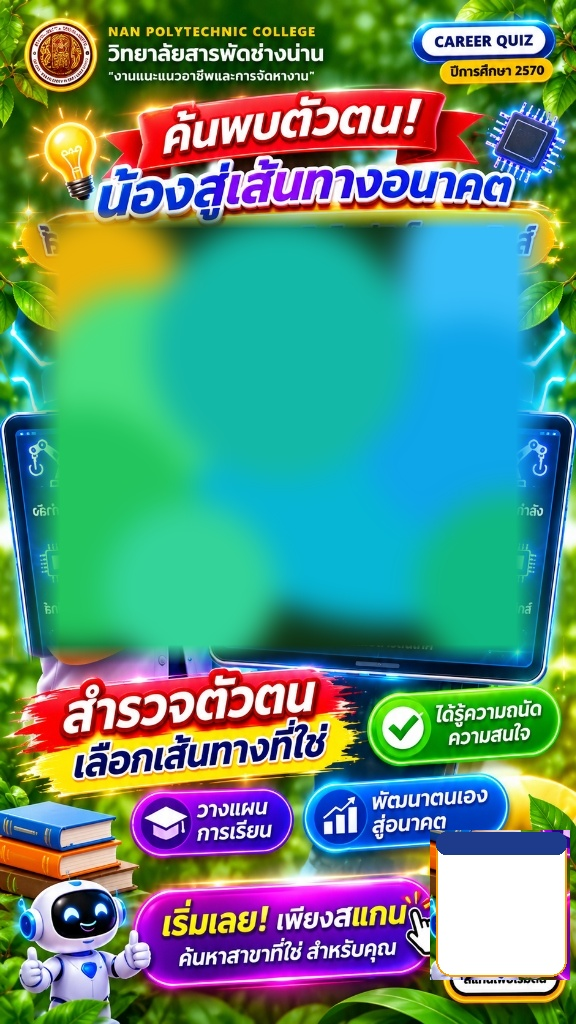
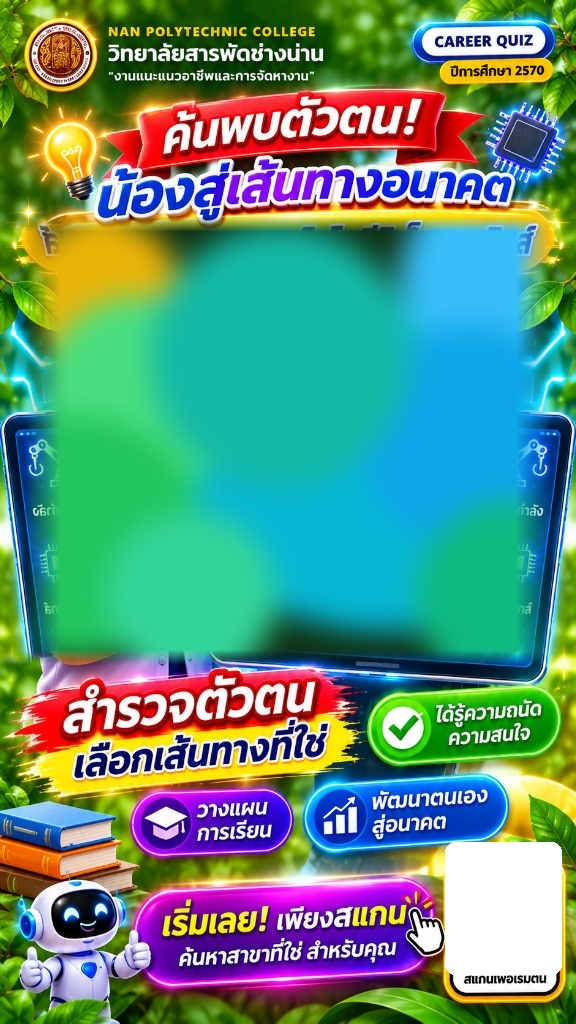
feat(guidance): adjust major capsule position for clear title spacing and perfectly overlay dynamic QR code on original card

diff --git a/src/components/GuidanceShareCardModal.tsx b/src/components/GuidanceShareCardModal.tsx
@@ -371,14 +371,14 @@ export default function GuidanceShareCardModal({
                     className="absolute inset-0 w-full h-full object-cover pointer-events-none select-none z-0"
                   />
 
-                  {/* 2. DYNAMIC GOLDEN CAPSULE: Major / Program Name (Positioned cleanly below original 3D title) */}
+                  {/* 2. DYNAMIC GOLDEN CAPSULE: Major / Program Name (Moved down to give 'น้องสู่เส้นทางอนาคต' full breathing room) */}
                   <div
                     style={{
                       position: "absolute",
-                      top: "206px",
+                      top: "218px",
                       left: "24px",
                       width: "528px",
-                      height: "64px",
+                      height: "60px",
                     }}
                     className="z-30 flex items-center justify-center pointer-events-none"
                   >
@@ -394,11 +394,11 @@ export default function GuidanceShareCardModal({
                     </div>
                   </div>
 
-                  {/* 4. DYNAMIC 3D MASCOT HERO (Replaces original character, transparent PNG, gesturing toward screen) */}
+                  {/* 3. DYNAMIC 3D MASCOT HERO (Replaces original character, transparent PNG, gesturing toward screen) */}
                   <div
                     style={{
                       position: "absolute",
-                      top: "240px",
+                      top: "255px",
                       left: "-4px",
                       width: "275px",
                       height: "415px",
@@ -419,14 +419,14 @@ export default function GuidanceShareCardModal({
                     </div>
                   </div>
 
-                  {/* 5. FUTURISTIC CYBER TABLET SCREEN (Containing Radar Chart as Native Display) */}
+                  {/* 4. FUTURISTIC CYBER TABLET SCREEN (Containing Radar Chart as Native Display) */}
                   <div
                     style={{
                       position: "absolute",
-                      top: "265px",
+                      top: "278px",
                       left: "232px",
                       width: "328px",
-                      height: "385px",
+                      height: "380px",
                     }}
                     className="z-20 rounded-3xl overflow-hidden bg-gradient-to-b from-[#0a1e3f]/95 via-[#071329]/95 to-[#040b18]/95 border-2 border-cyan-400/80 shadow-[0_0_30px_rgba(6,182,212,0.45)] backdrop-blur-md flex flex-col justify-between p-2.5"
                   >
@@ -473,21 +473,18 @@ export default function GuidanceShareCardModal({
                     </div>
                   </div>
 
-                  {/* 5. DYNAMIC QR CODE CARD OVERLAY (Real official admission link, old dummy QR and old text completely erased) */}
+                  {/* 5. DYNAMIC QR CODE OVERLAY (Fits and overlays the original card with pixel-perfect precision) */}
                   <div
                     style={{
                       position: "absolute",
-                      top: "832px",
-                      left: "436px",
-                      width: "130px",
-                      height: "144px",
+                      top: "844px",
+                      left: "448px",
+                      width: "110px",
+                      height: "128px",
                     }}
-                    className="z-30 rounded-2xl bg-white border-2 border-amber-400 shadow-xl flex flex-col items-center justify-between p-1.5 overflow-hidden"
+                    className="z-30 flex flex-col items-center justify-between pointer-events-none"
                   >
-                    <div className="w-full bg-[#1e3a8a] text-amber-300 font-black text-[9px] py-0.5 rounded-lg text-center tracking-wide shadow-xs">
-                      สแกนสมัครทันที
-                    </div>
-                    <div className="w-[96px] h-[96px] bg-white flex items-center justify-center p-0.5">
+                    <div className="w-[106px] h-[106px] bg-white flex items-center justify-center p-0.5 rounded-lg shadow-xs">
                       {qrCodeUrl ? (
                         // eslint-disable-next-line @next/next/no-img-element
                         <img
@@ -499,7 +496,7 @@ export default function GuidanceShareCardModal({
                         <div className="w-full h-full bg-slate-200 animate-pulse rounded" />
                       )}
                     </div>
-                    <span className="text-[#0f172a] font-black text-[8px] text-center tracking-tight">
+                    <span className="text-[#0f172a] font-black text-[9px] text-center tracking-tight leading-none mt-1">
                       วิทยาลัยสารพัดช่างน่าน
                     </span>
                   </div>
